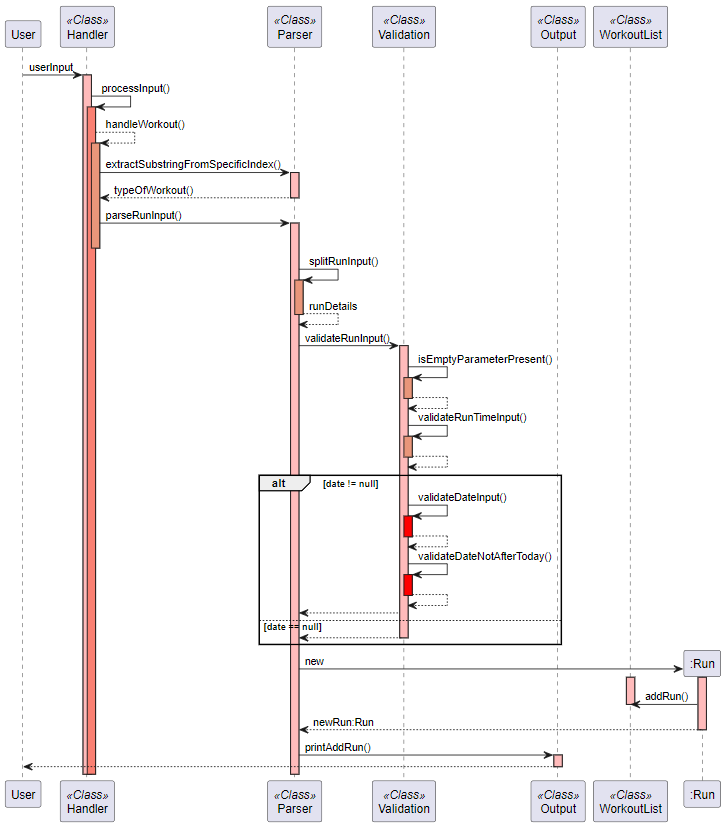
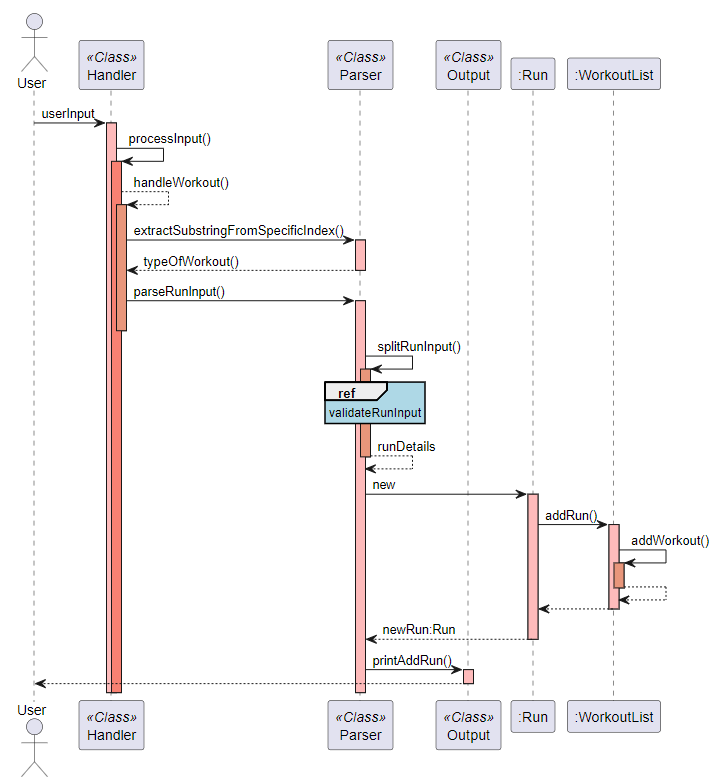
update diagrams for DG

Changed region(s): [[0.0, 0.0, 1.0, 1.0], [0.3708, 0.0, 0.927, 0.1226], [0.0309, 0.1533, 0.0618, 0.1839]]

diff --git a/docs/DeveloperGuide.md b/docs/DeveloperGuide.md
@@ -56,8 +56,7 @@ The purpose of this guide is to provide an explanation for all the functions and
 
 The application follows an Object-Oriented Design approach, with separate classes for handling different components of the application, such as user input, output, exercise logging, and health data management.
 
-
-![ArchitectureDiagram](![img.png](img/architecture_diagram.png)
+![Architecture Diagram](img/architecture_diagram.png)
 
 The **_Architecture Diagram_** given above explains the high-level design of the PulsePilot.
 
@@ -79,8 +78,6 @@ The application can be further broken down into the following packages:
 ### UI Package
 
 The `UI` package contains `Handler` and `Output`, which are responsible for handling user input and printing of output fo the screen respectively.
-
-![UI Package Class Diagram](img/ui_class_diagram.png)
 
 #### Handler
 
@@ -111,8 +108,6 @@ The `Output` class is responsible for printing messages, prompts, errors and oth
 4. `GymStation` stores the name of the gym station, number of sets, and an array of `GymSet` objects.
 5. `GymSet` stores the weight and repetitions for a particular set.
 6. `WorkoutList` is a class that stores an array list different `Workout` objects using ArrayList.
-
-![Workout Package Class Diagram](img/workout_class_diagram.png)
 
 ###### [Back to table of contents](#table-of-contents)
 
@@ -147,7 +142,7 @@ The `Output` class is responsible for printing messages, prompts, errors and oth
 ###### [Back to table of contents](#table-of-contents)
 
 ### Health Package
-![Class Diagram for Health Package](img/health_package.png)
+
 The Health component consists of `Health`, `HealthList`, `Bmi`, `Period`, and `Appointment`.
 
 1. `Health` class stores date.
@@ -357,6 +352,10 @@ This is the sequence diagram for adding a run:
 
 ![Run Sequence Diagram](img/run_sequence_diagram.png)
 
+`validateRunInput` uses the `Validation` class to check the parameters specified when adding a Run. It follows the sequence diagram below:
+
+![Run Validation Sequence Diagram](img/run_validation_sequence_diagram.png)
+
 ###### [Back to table of contents](#table-of-contents)
 
 #### Add Gym
@@ -469,6 +468,7 @@ The sequence diagram below shows how a `Bmi` object is added to `BMIS`.
 6. Upon successful validation, a new `Bmi` object is created based on `bmiDetails` with `bmiValue` obtained from `Bmi.calculateBmiValue()` and the corresponding BMI category obtained from `Bmi.getBmiCategory()`.
 7. `HealthList.addBmi()` adds the newly created `Bmi` into `BMIS`.
 8. `Output.printAddBmi()` prints `Bmi` string containing height, weight, date, BMI and BMI category to user.
+
 ![Sequence Diagram for Add Bmi](img/bmi_sequence.png)
 
 ###### [Back to table of contents](#table-of-contents)
